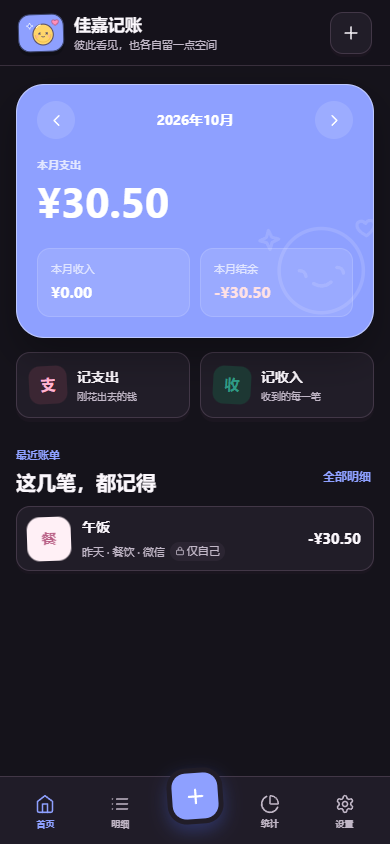
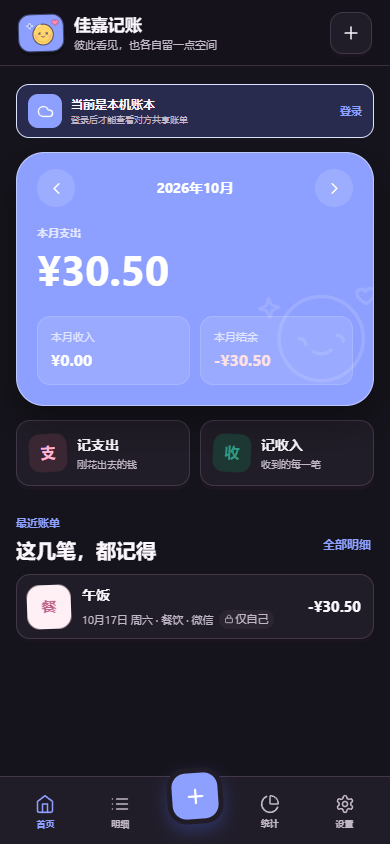
fix: add cookie auth fallback for mobile

diff --git a/cloud.js b/cloud.js
@@ -3,6 +3,7 @@
 
   const CONFIG_KEY = "jiajia-cloud-config-v1";
   const SESSION_KEY = "jiajia-cloud-session-v1";
+  const SESSION_COOKIE = "jiajia_cloud_session";
   const AUTH_DB_NAME = "jiajia-cloud-auth-v1";
   const AUTH_DB_STORE = "session";
   let config = readJson(CONFIG_KEY) || window.SHARED_LEDGER_CONFIG || null;
@@ -21,6 +22,37 @@
   function saveJson(key, value) {
     if (value) localStorage.setItem(key, JSON.stringify(value));
     else localStorage.removeItem(key);
+  }
+
+  function readSessionCookie() {
+    const prefix = `${SESSION_COOKIE}=`;
+    const entry = document.cookie.split("; ").find((item) => item.startsWith(prefix));
+    if (!entry) return null;
+    try {
+      return JSON.parse(decodeURIComponent(entry.slice(prefix.length)));
+    } catch {
+      return null;
+    }
+  }
+
+  function writeSessionCookie(value) {
+    if (!value?.accessToken || !value?.refreshToken) return;
+    const compact = {
+      accessToken: value.accessToken,
+      refreshToken: value.refreshToken,
+      expiresAt: value.expiresAt,
+      updatedAt: value.updatedAt || Date.now(),
+      user: value.user ? { id: value.user.id, email: value.user.email || "" } : null
+    };
+    const encoded = encodeURIComponent(JSON.stringify(compact));
+    if (encoded.length > 3800) return;
+    const secure = location.protocol === "https:" ? "; Secure" : "";
+    document.cookie = `${SESSION_COOKIE}=${encoded}; Max-Age=31536000; Path=/; SameSite=Lax${secure}`;
+  }
+
+  function clearSessionCookie() {
+    const secure = location.protocol === "https:" ? "; Secure" : "";
+    document.cookie = `${SESSION_COOKIE}=; Max-Age=0; Path=/; SameSite=Lax${secure}`;
   }
 
   function openAuthDb() {
@@ -63,19 +95,15 @@
   async function loadStoredSession() {
     const local = readJson(SESSION_KEY);
     const backup = await readSessionBackup();
-    if (!backup) return local;
-    if (!local) {
-      saveJson(SESSION_KEY, backup);
-      return backup;
-    }
-    const localTime = Number(local.updatedAt || 0);
-    const backupTime = Number(backup.updatedAt || 0);
-    if (backupTime > localTime) {
-      saveJson(SESSION_KEY, backup);
-      return backup;
-    }
-    if (localTime > backupTime) writeSessionBackup(local).catch(() => {});
-    return local;
+    const cookie = readSessionCookie();
+    const candidates = [local, backup, cookie].filter(Boolean);
+    if (!candidates.length) return null;
+    candidates.sort((a, b) => Number(b.updatedAt || 0) - Number(a.updatedAt || 0));
+    const latest = candidates[0];
+    if (latest !== local) saveJson(SESSION_KEY, latest);
+    if (latest !== backup) writeSessionBackup(latest).catch(() => {});
+    if (latest !== cookie) writeSessionCookie(latest);
+    return latest;
   }
 
   function configured() {
@@ -108,7 +136,9 @@
       refreshToken: data.refresh_token,
       expiresAt: Date.now() + Number(data.expires_in || 3600) * 1000,
       updatedAt: Date.now(),
-      user: data.user || session?.user || null
+      user: data.user
+        ? { id: data.user.id, email: data.user.email || "" }
+        : session?.user || null
     };
   }
 
@@ -116,6 +146,7 @@
     session = next;
     saveJson(SESSION_KEY, next);
     writeSessionBackup(next).catch(() => {});
+    writeSessionCookie(next);
     return next;
   }
 
@@ -188,9 +219,12 @@
     if (session.expiresAt && session.expiresAt - Date.now() < 60000) {
       try {
         await refreshSession();
-      } catch {
-        await signOut(false).catch(() => {});
-        return null;
+      } catch (error) {
+        if (isRefreshAuthError(error)) {
+          await signOut(false).catch(() => {});
+          return null;
+        }
+        return stored;
       }
     }
     return getSession();
@@ -241,6 +275,7 @@
     session = null;
     saveJson(SESSION_KEY, null);
     await clearSessionBackup();
+    clearSessionCookie();
   }
 
   async function ensureSession() {
@@ -355,6 +390,19 @@
     error.code = data?.error_code || data?.code || "";
     error.status = response.status;
     return error;
+  }
+
+  function isRefreshAuthError(error) {
+    const status = Number(error?.status || 0);
+    const code = String(error?.code || "").toLowerCase();
+    const message = String(error?.message || "").toLowerCase();
+    return (status === 400 || status === 401)
+      && (
+        code.includes("invalid_grant")
+        || code.includes("refresh_token")
+        || code.includes("session_not_found")
+        || message.includes("invalid refresh token")
+      );
   }
 
   window.JiajiaCloud = {

diff --git a/app.js b/app.js
@@ -128,7 +128,7 @@
       "sheetTitle", "transactionForm", "typeSwitch", "amountInput", "categoryGrid",
       "accountChips", "dateInput", "noteInput", "deleteButton", "saveButton", "toast",
       "cloudPanel", "ledgerModeLabel", "syncModeLabel", "readonlyBanner",
-      "visibilitySection", "visibilitySwitch", "editSheet"
+      "visibilitySection", "visibilitySwitch", "editSheet", "modeBanner"
     ].forEach((id) => {
       elements[id] = document.getElementById(id);
     });
@@ -419,10 +419,15 @@
 
   function renderAll() {
     renderMonthLabels();
+    renderModeBanner();
     renderHome();
     renderLedger();
     renderStats();
     renderSettings();
+  }
+
+  function renderModeBanner() {
+    elements.modeBanner.hidden = state.mode !== "local" || state.view === "settings";
   }
 
   function renderMonthLabels() {
@@ -849,6 +854,7 @@
         refreshCloudTransactions(false);
       }
     }
+    renderModeBanner();
     if (location.hash !== `#${view}`) history.replaceState(null, "", `#${view}`);
     window.scrollTo({ top: 0, behavior: "auto" });
   }
@@ -1305,10 +1311,30 @@
     }
   }
 
-  function registerServiceWorker() {
+  async function registerServiceWorker() {
     if (!("serviceWorker" in navigator)) return;
-    navigator.serviceWorker.register("./sw.js").catch((error) => {
-      console.warn("Service worker registration failed", error);
+    let refreshing = false;
+    const hadController = Boolean(navigator.serviceWorker.controller);
+    navigator.serviceWorker.addEventListener("controllerchange", () => {
+      if (!hadController || refreshing) return;
+      refreshing = true;
+      window.location.reload();
     });
+    try {
+      const registration = await navigator.serviceWorker.register("./sw.js");
+      if (registration.waiting) registration.waiting.postMessage({ type: "SKIP_WAITING" });
+      registration.addEventListener("updatefound", () => {
+        const worker = registration.installing;
+        if (!worker) return;
+        worker.addEventListener("statechange", () => {
+          if (worker.state === "installed" && navigator.serviceWorker.controller) {
+            worker.postMessage({ type: "SKIP_WAITING" });
+          }
+        });
+      });
+      await registration.update();
+    } catch (error) {
+      console.warn("Service worker registration failed", error);
+    }
   }
 })();

diff --git a/styles.css b/styles.css
@@ -191,6 +191,59 @@ main {
   padding: 18px 16px calc(105px + var(--safe-bottom));
 }
 
+.mode-banner {
+  display: grid;
+  width: 100%;
+  grid-template-columns: 34px minmax(0, 1fr) auto;
+  align-items: center;
+  gap: 9px;
+  margin-bottom: 14px;
+  padding: 9px 11px;
+  border: 1px solid #dce3ff;
+  border-radius: 13px;
+  background: var(--primary-soft);
+  color: var(--text);
+  text-align: left;
+  cursor: pointer;
+}
+
+.mode-banner-icon {
+  display: grid;
+  width: 34px;
+  height: 34px;
+  place-items: center;
+  border-radius: 10px;
+  background: var(--primary);
+  color: #fff;
+}
+
+.mode-banner-icon svg {
+  width: 17px;
+  height: 17px;
+}
+
+.mode-banner > span:nth-child(2) {
+  display: grid;
+  min-width: 0;
+}
+
+.mode-banner strong {
+  font-size: 12px;
+}
+
+.mode-banner small {
+  overflow: hidden;
+  color: var(--muted);
+  font-size: 9px;
+  text-overflow: ellipsis;
+  white-space: nowrap;
+}
+
+.mode-banner b {
+  color: var(--primary);
+  font-size: 11px;
+}
+
 .view {
   animation: view-in .24s ease-out both;
 }

diff --git a/sw.js b/sw.js
@@ -1,5 +1,5 @@
 /* 改动页面文件后同步提升 CACHE 版本，联网时会优先取新版本。 */
-const CACHE = "jiajia-ledger-v17";
+const CACHE = "jiajia-ledger-v19";
 const ASSETS = [
   "./",
   "./index.html",
@@ -27,6 +27,10 @@ self.addEventListener("activate", (event) => {
       .then((keys) => Promise.all(keys.filter((key) => key !== CACHE).map((key) => caches.delete(key))))
       .then(() => self.clients.claim())
   );
+});
+
+self.addEventListener("message", (event) => {
+  if (event.data?.type === "SKIP_WAITING") self.skipWaiting();
 });
 
 self.addEventListener("fetch", (event) => {

diff --git a/index.html b/index.html
@@ -95,6 +95,12 @@
     </header>
 
     <main id="main">
+      <button class="mode-banner" id="modeBanner" type="button" data-view="settings" hidden>
+        <span class="mode-banner-icon"><svg><use href="#i-cloud"></use></svg></span>
+        <span><strong>当前是本机账本</strong><small>登录后才能查看对方共享账单</small></span>
+        <b>登录</b>
+      </button>
+
       <section class="view" id="view-home" aria-labelledby="homeTitle">
         <h1 class="sr-only" id="homeTitle">佳嘉记账首页</h1>
 

diff --git a/更新日志.md b/更新日志.md
@@ -5,6 +5,10 @@
 - 手机端登录会话同时保存在 localStorage 和 IndexedDB；其中一份被 Safari 清理时仍可恢复。
 - 登录恢复时比较两份会话的更新时间，自动选择最新的一次，避免旧 token 覆盖新 token。
 - 在手机触摸视口下验证：过期 token 自动续期，删除 localStorage 后仍能从 IndexedDB 恢复登录。
+- 网络暂不可用时不再主动清除 refresh token，恢复联网后可继续使用原登录会话。
+- 新版本 Service Worker 会主动接管并自动刷新一次页面，避免手机长期停留在旧登录逻辑。
+- 增加同源 Cookie 会话备份，形成 localStorage、IndexedDB、Cookie 三层恢复。
+- 首页和明细页增加“当前是本机账本，登录后才能查看共享”的全局提示入口。
 
 ## 2026-10-18 v1.3.1
 
